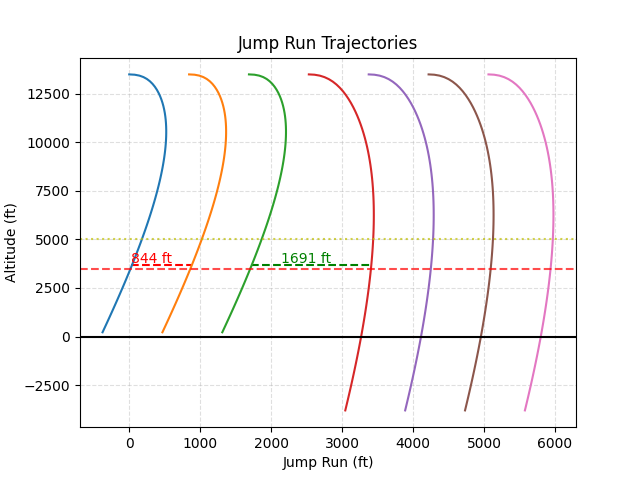
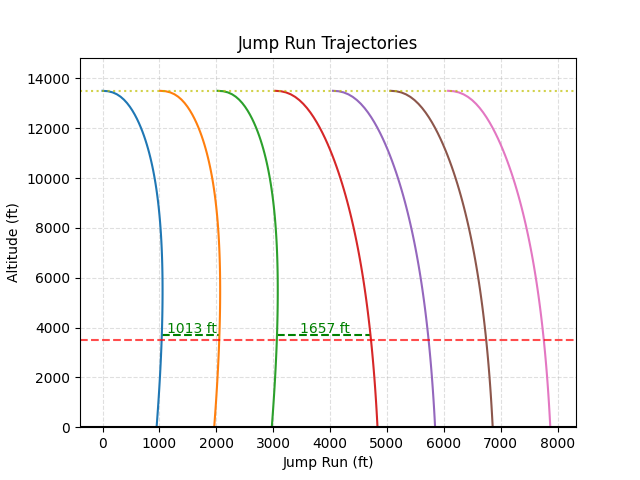
Moved constants and params to other files

diff --git a/main.py b/main.py
@@ -10,6 +10,8 @@
 #       at different altitudes
 # TODO: Clean up / Comment code
 # TODO: Add user interface to allow for run-time changes to configurable values
+# TODO: Add option to import data from CSV file of the load, including number
+#       of groups, discipline for each group, average mass of the group, etc.
 
 import time
 import sys
@@ -18,6 +20,9 @@ import os
 import numpy as np
 import matplotlib.pyplot as plt
 import subprocess as sp
+
+import params
+import const
 from skydiver import Skydiver
 
 def signal_handler(sig, frame):
@@ -25,50 +30,31 @@ def signal_handler(sig, frame):
     os.system("killall -s 9 eog")
     sys.exit(0)
 
-# CONVERSION CONSTANTS
-KT_TO_MPS = 0.51444444444444
-LB_TO_KG = 0.45359237
-M_TO_FT = 3.280839895
-MPS_TO_MPH = 2.2369362920544025
 
-# ENVIRONMENTAL PARAMETERS
-rho = 1.0               # Air density (NOTE: will eventually not be constant)
-g = 9.81                # Gravitational acceleration constant in m/s^2
+# SPECIAL PARAMETERS
+rho = params.rho # Air density (NOTE: will eventually not be constant)
 
 # JUMP PARAMETERS
-EXIT_ALT = 13500        # Exit altitude in feet
-BREAKOFF_ALT = 5000     # Breakoff altitude in feet
-PULL_ALT = 3500         # Pull altitude in feet
-IDEAL_SEP = 1000        # Ideal exit separation in feet
-BLAZE_IT = 420          # You know what I'm sayin
-SIM_TIME = 80           # Number of seconds to run simulation
-z0 = EXIT_ALT/M_TO_FT   # Exit altitude (13,500 ft) converted to meters
-
-# AERODYNAMIC PARAMETERS
-CD_HD = 0.8             # Drag Coefficient of a Head Down flyer (see https://tinyurl.com/ya99r6b4)
-CD_BELLY = 1.0          # Estimated drag coefficient of a belly flyer
-A_HD = 0.35             # Head Down surface area (see http://labman.phys.utk.edu/phys221core/modules/m3/drag.html) 
-A_BELLY = 16.0*68.0 / 144.0 / ((M_TO_FT)**2) * 0.7 # Estimated Human body surface area - see NOTE 1 
-
-################################################################################
-# CONFIGURABLE PARAMETERS ######################################################
-################################################################################
-m = 160*LB_TO_KG        # Jumper exit weight (mass), converted from lbs to kg
-Va = 70*KT_TO_MPS       # Aircraft airspeed, converted from knots to m/s
-V_upper = 20*KT_TO_MPS  # Average winds aloft speed, converted from knots to m/s
-t_sep = 10              # Exit separation in seconds
-num_groups = 7          # Number of groups on the load
-################################################################################
-################################################################################
-################################################################################
+EXIT_ALT     = params.EXIT_ALT      # Exit altitude in feet
+BREAKOFF_ALT = params.EXIT_ALT      # Breakoff altitude in feet
+PULL_ALT     = params.PULL_ALT      # Pull altitude in feet
+IDEAL_SEP    = params.IDEAL_SEP     # Ideal exit separation in feet
+SIM_TIME     = params.SIM_TIME      # Number of seconds to run simulation
+z0           = params.z0            # Exit altitude (13,500 ft) converted to meters
+m            = params.m             # Jumper exit weight (mass, in kg)
+Va           = params.Va            # Jump run airspeed in m/s
+V_upper      = params.V_upper       # Uppers airspeed in m/s @TODO Make this altitude-dependent
+t_sep        = params.t_sep         # Exit separation in seconds
+num_groups   = params.num_groups    # Number of groups on the load
 
 # Global runtime variables
-Q = 0                   # rho*A*CD, variable to keep code clean
-Vg = Va - V_upper       # Aircraft groundspeed in m/s
-x_offset = t_sep * Vg   # Exit separation in meters
+Q = 0                               # rho*A*CD, variable to keep code clean
+Vg = Va - V_upper                   # Aircraft groundspeed in m/s
+x_offset = t_sep * Vg               # Exit separation in meters
 
 
 def find_nearest(array, value):
+    closest = 0
     found = False
     for i, val in enumerate(array):
         if val > value:
@@ -90,6 +76,7 @@ def plot_trajectories(trajectories):
     plt.title("Jump Run Trajectories")
     plt.xlabel("Jump Run (ft)")
     plt.ylabel("Altitude (ft)")
+    plt.ylim(bottom=0)
 
     # Plot horizontal lines for breakoff/pull altitudes, as well as the ground
     plt.axhline(y=BREAKOFF_ALT, color='y', linestyle='dotted', alpha=0.7)
@@ -134,17 +121,17 @@ def plot_trajectories(trajectories):
     # (nominally 1000 feet) and green otherwise
     if min_sep_dist < IDEAL_SEP:
         plt.hlines(PULL_ALT+200, min_dist_0, min_dist_1, colors='r', label=str(min_sep_dist), linestyle='--')
-        plt.text((min_dist_0 + min_dist_1)/2 - BLAZE_IT, PULL_ALT+300, str(round(min_sep_dist)) + " ft", color='r')
+        plt.text((min_dist_0 + min_dist_1)/2 - const.BLAZE_IT, PULL_ALT+300, str(round(min_sep_dist)) + " ft", color='r')
     else:
         plt.hlines(PULL_ALT+200, min_dist_0, min_dist_1, colors='g', label=str(min_sep_dist), linestyle='--')
-        plt.text((min_dist_0 + min_dist_1)/2 - BLAZE_IT, PULL_ALT+300, str(round(min_sep_dist)) + " ft", color='g')
+        plt.text((min_dist_0 + min_dist_1)/2 - const.BLAZE_IT, PULL_ALT+300, str(round(min_sep_dist)) + " ft", color='g')
 
     if max_sep_dist < IDEAL_SEP:
         plt.hlines(PULL_ALT+200, max_dist_0, max_dist_1, colors='r', label=str(max_sep_dist), linestyle='--')
-        plt.text((max_dist_0 + max_dist_1)/2 - BLAZE_IT, PULL_ALT+300, str(round(max_sep_dist)) + " ft", color='r')
+        plt.text((max_dist_0 + max_dist_1)/2 - const.BLAZE_IT, PULL_ALT+300, str(round(max_sep_dist)) + " ft", color='r')
     else:
         plt.hlines(PULL_ALT+200, max_dist_0, max_dist_1, colors='g', label=str(max_sep_dist), linestyle='--')
-        plt.text((max_dist_0 + max_dist_1)/2 - BLAZE_IT, PULL_ALT+300, str(round(max_sep_dist)) + " ft", color='g')
+        plt.text((max_dist_0 + max_dist_1)/2 - const.BLAZE_IT, PULL_ALT+300, str(round(max_sep_dist)) + " ft", color='g')
 
     # Save figure to file and return 0
     plt.savefig("z_vs_x_all_groups.png")
@@ -166,16 +153,16 @@ if __name__ == "__main__":
     trajectories = []
     for i, jumper in enumerate(load):
         if i < 3: # TODO: Change this to actually function correctly without being hardcoded
-            A = A_BELLY
-            CD = CD_BELLY
+            A = const.A_BELLY
+            CD = const.CD_BELLY
             Q = rho*A*CD
             u = jumper.compute_u(t, Va, Q)
             w = jumper.compute_w(t, Va, Q)
             x = jumper.compute_x(t, i*x_offset, Va, Q)
             z = jumper.compute_z(t, z0, Va, Q)
         else:
-            A = A_HD
-            CD = CD_HD
+            A = const.A_HD
+            CD = const.CD_HD
             Q = rho*A*CD
             u = jumper.compute_u(t, Va, Q)
             w = jumper.compute_w(t, Va, Q)
@@ -187,10 +174,10 @@ if __name__ == "__main__":
         x = x - V_upper*t
 
         trajectories.append({
-            "u" : u*M_TO_FT,
-            "w" : w*M_TO_FT,
-            "x" : x*M_TO_FT,
-            "z" : z*M_TO_FT
+            "u" : u*const.M_TO_FT,
+            "w" : w*const.M_TO_FT,
+            "x" : x*const.M_TO_FT,
+            "z" : z*const.M_TO_FT
         })
         
     # print(trajectories)
@@ -210,7 +197,7 @@ if __name__ == "__main__":
 
     # Single jumper vertical speed - TODO: Make this its own function (with horiz speed)
     plt.figure(2)
-    plt.plot(t, trajectories[0]['w']*MPS_TO_MPH)
+    plt.plot(t, trajectories[0]['w']*const.MPS_TO_MPH)
     plt.grid(alpha=.4,linestyle='--')
     plt.title("Vertical Speed vs. Time (First Group)")
     plt.xlabel("Time (s)")
@@ -219,7 +206,7 @@ if __name__ == "__main__":
 
     # Single jumper horizontal speed
     plt.figure(3)
-    plt.plot(t, trajectories[0]['u']*MPS_TO_MPH)
+    plt.plot(t, trajectories[0]['u']*const.MPS_TO_MPH)
     plt.grid(alpha=.4,linestyle='--')
     plt.title("Horizontal Speed vs. Time (First Group)")
     plt.xlabel("Time (s)")
@@ -230,11 +217,3 @@ if __name__ == "__main__":
     processes.append(sp.Popen("eog z_vs_x_all_groups.png &", shell=True))
 
     signal.pause()
-
-
-
-# NOTE 1:
-# Human body surface area -- Estimated by taking my width*height in inches, 
-# converting to feet, then converting to meters and multiplying by an estimate 
-# of the percentage of the rectangular surface that would be filled by a human 
-# body falling with an arch

diff --git a/const.py b/const.py
@@ -1,0 +1,25 @@
+#!/usr/bin/env python3
+
+# CONVERSION CONSTANTS
+KT_TO_MPS = 0.51444444444444   
+LB_TO_KG = 0.45359237          
+M_TO_FT = 3.280839895          
+MPS_TO_MPH = 2.2369362920544025
+
+# PHYSICS CONSTANTS
+g = 9.81                # Gravitational acceleration constant in m/s^2
+
+# AERODYNAMIC CONSTANTS
+CD_HD = 0.8             # Drag Coefficient of a Head Down flyer (see https://tinyurl.com/ya99r6b4)                
+CD_BELLY = 1.0          # Estimated drag coefficient of a belly flyer                                             
+A_HD = 0.35             # Head Down surface area (see http://labman.phys.utk.edu/phys221core/modules/m3/drag.html)
+A_BELLY = 16.0*68.0 / 144.0 / ((M_TO_FT)**2) * 0.7 # Estimated Human body surface area - see NOTE 1               
+
+# MISC CONSTANTS
+BLAZE_IT = 420
+
+# NOTE 1:                                                                      
+# Human body surface area -- Estimated by taking my width*height in inches,    
+# converting to feet, then converting to meters and multiplying by an estimate 
+# of the percentage of the rectangular surface that would be filled by a human 
+# body falling with an arch                                                    

diff --git a/params.py b/params.py
@@ -1,0 +1,24 @@
+#!/usr/bin/env python3
+
+import const
+
+EXIT_ALT        = 13500                     # Exit altitude in feet
+BREAKOFF_ALT    = 5000                      # Breakoff altitude in feet
+PULL_ALT        = 3500                      # Pull altitude in feet
+IDEAL_SEP       = 1000                      # Ideal exit separation (1000 feet)
+
+SIM_TIME        = 120                       # Simulation time in seconds
+
+z0              = EXIT_ALT / const.M_TO_FT  # Initial Altitude in meters
+
+weight          = 160                       # Jumper exit weight in pounds
+m               = weight * const.LB_TO_KG   # Jumper mass in kg
+
+rho             = 1.0                       # Air density (eventually not const)
+
+V_upper         = 10 * const.KT_TO_MPS      # Uppers in knots, converted to m/s
+Va              = 70 * const.KT_TO_MPS      # Jump run airspeed in knots, 
+                                            # converted to m/s
+
+t_sep           = 10                        # Exit separation in seconds
+num_groups      = 7                         # Number of groups on the load

diff --git a/skydiver.py b/skydiver.py
@@ -1,9 +1,10 @@
 #!/usr/bin/env python3
 
 import numpy as np
+import const
 
 # CONSTANTS
-g = 9.81
+g = const.g
 
 class Skydiver:
 
